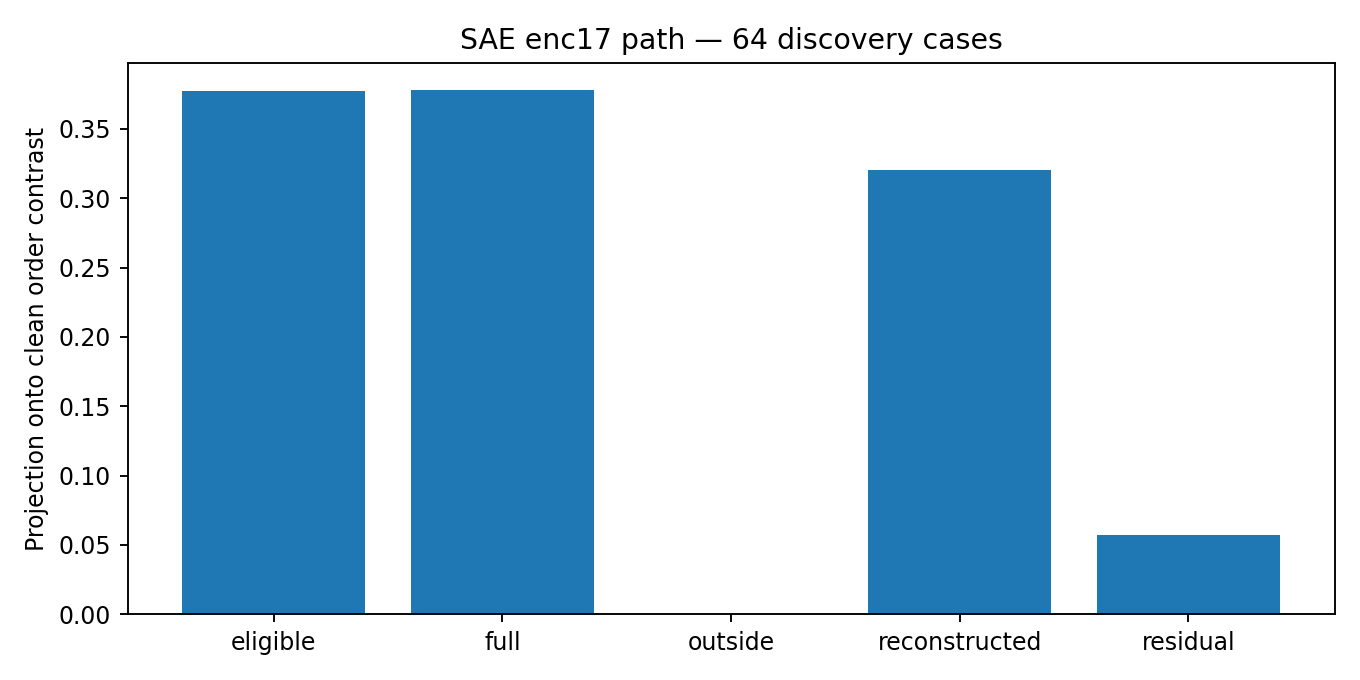
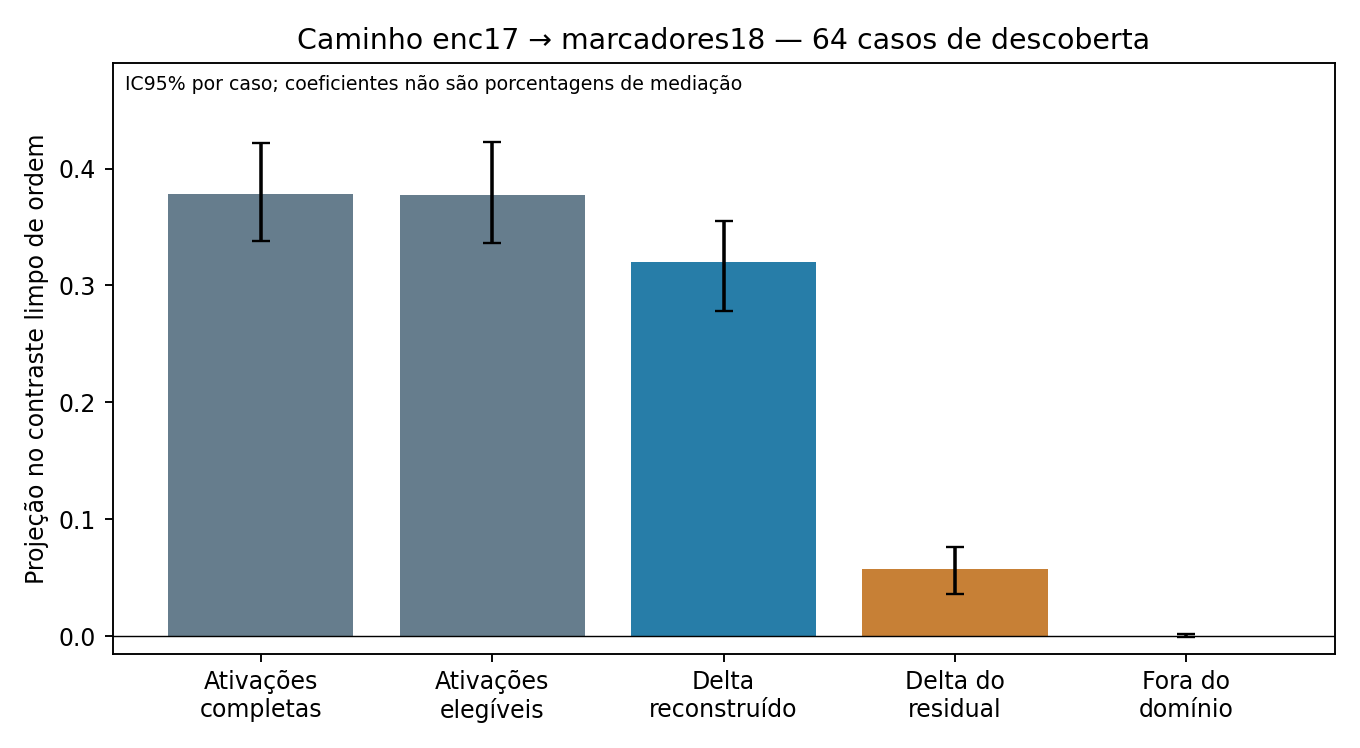
analysis: add feature audit checks and record pilot job 4511

diff --git a/analyze_position_sae_features.py b/analyze_position_sae_features.py
@@ -1,0 +1,101 @@
+"""Offline audit and paired case-bootstrap of frozen cross-fitted feature transfers."""
+import argparse
+import json
+from pathlib import Path
+import numpy as np
+import pandas as pd
+from run_position import atomic_json
+from analyze_position_sae import digest,estimate,probability_stats
+from src.position import effect_metrics
+
+
+def analyze(root,out,n_boot=2000):
+    manifest=json.loads((root/'manifest.json').read_text());complete=json.loads((root/'COMPLETE.json').read_text())
+    if digest(root/'manifest.json')!=complete['manifest_sha256']:raise ValueError('manifest differs')
+    files={p.relative_to(root).as_posix() for p in (root/'decisions').glob('*.json')}
+    if files!=set(complete['decision_sha256']):raise ValueError('file coverage differs')
+    seen=set();rows=[];contrasts=[];side=[];controls={};doses=[]
+    for rel,sha in complete['decision_sha256'].items():
+        path=root/rel
+        if digest(path)!=sha:raise ValueError('decision hash differs')
+        d=json.loads(path.read_text());key=(d['case_id'],d['qid'])
+        if key in seen:raise ValueError('duplicate decision')
+        seen.add(key);base=dict(case_id=d['case_id'],qid=d['qid'],workflow=d['workflow'],fold=d['fold'])
+        labels={'self','all_features','eligible_activation','only_selected','drop_selected','reset_all18'}
+        labels|={f'{mode}_matched_{i}' for mode in ('only','drop') for i in range(len(d['matched_sets']))}
+        labels|={f'noise_selected_{i}' for i in range(manifest['args']['n_null'])}
+        orders={tuple(r['donor_order']) for r in d['patches']}
+        if len(orders)!=2:raise ValueError('direction coverage differs')
+        found=set()
+        for r in d['patches']:
+            rowkey=(r['condition'],tuple(r['donor_order']))
+            if rowkey in found:raise ValueError('duplicate condition')
+            found.add(rowkey)
+            metric=effect_metrics(r['donor_logits'],r['recipient_logits'],r['patched_logits'])
+            for name,value in metric.items():
+                if value is None and r[name] is not None:raise ValueError('undefined metric differs')
+                if value is not None and not np.isclose(value,r[name],atol=1e-9,rtol=1e-8):raise ValueError('metric differs')
+            rows.append(dict(**base,**r))
+            gold=d['option_ids'].index(str(d['gold']['label']))
+            a=probability_stats(r['recipient_logits'],r['recipient_probabilities'],gold)
+            b=probability_stats(r['patched_logits'],r['patched_probabilities'],gold)
+            p=np.array(r['recipient_probabilities']);p/=p.sum();q=np.array(r['patched_probabilities']);q/=q.sum()
+            side.append(dict(**base,condition=r['condition'],kl=float((p*(np.log(p.clip(1e-15))-np.log(q.clip(1e-15)))).sum()),
+                **{f'original_{k}':v for k,v in a.items()},**{f'edited_{k}':v for k,v in b.items()},**{f'delta_{k}':b[k]-v for k,v in a.items()}))
+        if found!={(label,order) for label in labels for order in orders}:raise ValueError('condition grid differs')
+        for c in d['controls']:controls[c['control']]=max(controls.get(c['control'],0),c['error'])
+        for order in orders:
+            by={r['condition']:r for r in d['patches'] if tuple(r['donor_order'])==order};ref=by['all_features'];rlog=np.array(ref['recipient_logits'])
+            def get(label):
+                prefix={'matched_only_mean':'only_matched_','matched_drop_mean':'drop_matched_','noise_mean':'noise_selected_'}.get(label)
+                if prefix:return np.mean([r['patched_logits'] for name,r in by.items() if name.startswith(prefix)],axis=0)
+                return np.array(by[label]['patched_logits'])
+            for name,left,right in [('selected_minus_matched','only_selected','matched_only_mean'),
+                ('drop_matched_minus_drop_selected','matched_drop_mean','drop_selected'),
+                ('selected_minus_noise','only_selected','noise_mean'),('loss_selected','all_features','drop_selected'),
+                ('selected_minus_all','only_selected','all_features')]:
+                contrasts.append(dict(**base,contrast=name,donor_order=order,
+                    **effect_metrics(ref['donor_logits'],ref['recipient_logits'],rlog+get(left)-get(right))))
+            for group,prefix in [('matched_only_mean','only_matched_'),('matched_drop_mean','drop_matched_'),('noise_mean','noise_selected_')]:
+                temp=dict(**base,condition=group,donor_order=order,
+                    predicted_numerator=float(np.mean([r['predicted_numerator'] for name,r in by.items() if name.startswith(prefix)])),
+                    delta_norm=float(np.mean([r['delta_norm'] for name,r in by.items() if name.startswith(prefix)])),
+                    **effect_metrics(ref['donor_logits'],ref['recipient_logits'],get(group)))
+                rows.append(temp)
+            matched=[r['delta_norm'] for name,r in by.items() if name.startswith('only_matched_')]
+            doses.append(dict(**base,donor_order=order,selected_norm=by['only_selected']['delta_norm'],matched_norm_mean=float(np.mean(matched)),
+                matched_norm_min=min(matched),matched_norm_max=max(matched)))
+    expected={tuple(t) for t in manifest['tasks']}
+    if seen!=expected or len(seen)!=complete['decisions']:raise ValueError('task coverage differs')
+    out.mkdir(parents=True,exist_ok=True);summ=[];cs=[];sens=[]
+    f=pd.DataFrame(rows)
+    for condition,g in f.groupby('condition'):
+        summ.append(dict(condition=condition,**estimate(g,n_boot)))
+        for workflow in sorted(g.workflow.unique()):
+            h=g[g.workflow!=workflow]
+            if len(h):sens.append(dict(condition=condition,analysis=f'without_{workflow}',**estimate(h,n_boot)))
+        for order,h in g.groupby(g.donor_order.map(tuple)):
+            sens.append(dict(condition=condition,analysis=str(order),**estimate(h,n_boot)))
+    for name,g in pd.DataFrame(contrasts).groupby('contrast'):cs.append(dict(contrast=name,**estimate(g,n_boot)))
+    pd.DataFrame(summ).to_csv(out/'summary.csv',index=False);pd.DataFrame(cs).to_csv(out/'contrasts.csv',index=False)
+    pd.DataFrame(sens).to_csv(out/'sensitivity.csv',index=False);pd.DataFrame(doses).to_csv(out/'dose_balance.csv',index=False)
+    pd.DataFrame(side).groupby('condition').mean(numeric_only=True).to_csv(out/'side_effects.csv')
+    calibration=[]
+    for condition,g in f.groupby('condition'):
+        valid=g[['predicted_numerator','projection_numerator']].to_numpy()
+        corr=float(np.corrcoef(pd.Series(valid[:,0]).rank().to_numpy(),pd.Series(valid[:,1]).rank().to_numpy())[0,1]) if np.std(valid[:,0])>1e-12 and np.std(valid[:,1])>1e-12 else None
+        calibration.append(dict(condition=condition,spearman=corr,mean_absolute_numerator_error=float(np.abs(valid[:,0]-valid[:,1]).mean()),
+            predicted_projection=float(g.predicted_numerator.sum()/g.contrast_sqnorm.sum()) if g.contrast_sqnorm.sum()>1e-8 else None))
+    pd.DataFrame(calibration).to_csv(out/'first_order_calibration.csv',index=False)
+    atomic_json(out/'audit.json',dict(cases=len(manifest['case_ids']),decisions=len(seen),condition_rows=sum(1 for row in rows if row['condition'] not in ('matched_only_mean','matched_drop_mean','noise_mean')),
+        controls=controls,manifest_sha256=digest(root/'manifest.json'),selection_sha256=manifest['selection_sha256'],
+        n_boot=n_boot,seed=0,interpretation='Exploratory cross-fitted discovery; no position selectivity or mediation percentage.'))
+    atomic_json(out/'summary.json',dict(conditions=summ,contrasts=cs,calibration=calibration))
+    print(json.dumps(cs,indent=2))
+
+
+def main():
+    ap=argparse.ArgumentParser(description=__doc__);ap.add_argument('--input',type=Path,required=True);ap.add_argument('--out',type=Path,required=True)
+    a=ap.parse_args();analyze(a.input,a.out)
+
+if __name__=='__main__':main()

diff --git a/tests/test_position_sae_features.py b/tests/test_position_sae_features.py
@@ -47,4 +47,44 @@ class FeatureTests(unittest.TestCase):
             numeric=(results[1]-results[0])/2
             torch.testing.assert_close(numeric,(g*delta).sum(),atol=1e-3,rtol=.03)
 
+class FeaturePipelineTests(unittest.TestCase):
+    def test_collection_and_offline_audit_synthetic(self):
+        import hashlib,json,tempfile
+        from pathlib import Path
+        from run_position import Runner,atomic_json
+        from run_position_sae import collect as collect_reference
+        from run_position_sae_features import collect
+        from analyze_position_sae_features import analyze
+        from test_position_runner import SyntheticAgent
+        from test_position_factorial import FactorialModel
+        from test_position_path import ToyBlock
+        agent=SyntheticAgent();agent.device='cpu';agent.model=FactorialModel();agent.model.head=ToyBlock()
+        agent.tok.decode=lambda ids:' '.join(map(str,ids))
+        modules=[('emb',agent.model.emb),('enc_17',agent.model.layer),('enc_18',agent.model.head),('enc_final',agent.model.final)]
+        q=dict(type='choice',instructions='pick',criteria={'a':'red','b':'blue'})
+        case=dict(case_id='toy',state='case',workflow='toy',questions={'q':q},gold={'q':{'label':'a'}})
+        sae=TopKSAE(2,16,k=3);sae.scale.fill_(0.02)
+        with patch('src.activations.layer_modules',return_value=modules),patch('src.activations._options_over_cap',return_value=0):
+            runner=Runner(agent)
+            with torch.inference_mode():ref=collect_reference(runner,sae,'enc_17',case,'q',1,None)
+            data=collect(runner,sae,case,'q',dict(selected=[1,2],controls=[[3,4],[5,6]]),ref,4)
+        self.assertEqual(len(data['patches']),28)
+        self.assertTrue(all(c['error']<1e-4 for c in data['controls']))
+        data['fold']=0
+        with tempfile.TemporaryDirectory() as temp:
+            root=Path(temp);out=root/'analysis';dest=root/'decisions'/'toy.json'
+            atomic_json(dest,data)
+            atomic_json(root/'manifest.json',dict(tasks=[['toy','q']],case_ids=['toy'],args={'n_null':4},selection_sha256='synthetic'))
+            atomic_json(root/'COMPLETE.json',dict(decisions=1,manifest_sha256=hashlib.sha256((root/'manifest.json').read_bytes()).hexdigest(),
+                decision_sha256={'decisions/toy.json':hashlib.sha256(dest.read_bytes()).hexdigest()}))
+            analyze(root,out,n_boot=20)
+            audit=json.loads((out/'audit.json').read_text())
+            self.assertEqual(audit['condition_rows'],28)
+            # A saved metric mutation must fail even if the file hash is refreshed.
+            data['patches'][0]['projection_numerator']+=1
+            atomic_json(dest,data)
+            complete=json.loads((root/'COMPLETE.json').read_text());complete['decision_sha256']['decisions/toy.json']=hashlib.sha256(dest.read_bytes()).hexdigest()
+            atomic_json(root/'COMPLETE.json',complete)
+            with self.assertRaisesRegex(ValueError,'metric differs'):analyze(root,out,n_boot=20)
+
 if __name__=='__main__':unittest.main()

diff --git a/analyze_position_sae.py b/analyze_position_sae.py
@@ -146,9 +146,17 @@ def analyze(root,out,n_boot):
     import matplotlib
     matplotlib.use('Agg')
     import matplotlib.pyplot as plt
-    shown=[r for r in summary if r['layer']=='enc_17' and r['group']=='nonmarkers' and r['mode']=='path' and r['condition'] in ('full','eligible','reconstructed','residual','outside')]
-    fig,ax=plt.subplots(figsize=(8,4));ax.bar([r['condition'] for r in shown],[r['projection'] for r in shown])
-    ax.set_ylabel('Projection onto clean order contrast');ax.set_title(f'SAE enc17 path — {len(manifest["case_ids"])} discovery cases')
+    target={r['condition']:r for r in summary if r['layer']=='enc_17' and r['group']=='nonmarkers' and r['mode']=='path'}
+    order=['full','eligible','reconstructed','residual','outside']
+    shown=[target[k] for k in order]
+    labels=['Ativações\ncompletas','Ativações\nelegíveis','Delta\nreconstruído','Delta do\nresidual','Fora do\ndomínio']
+    values=[r['projection'] for r in shown]
+    errors=np.array([[max(0,r['projection']-r['ci'][0]),max(0,r['ci'][1]-r['projection'])] for r in shown]).T
+    fig,ax=plt.subplots(figsize=(8,4.4));ax.bar(labels,values,yerr=errors,capsize=4,color=['#667d8d','#667d8d','#277da8','#c78036','#8d8d8d'])
+    ax.axhline(0,color='black',linewidth=.6);ax.set_ylabel('Projeção no contraste limpo de ordem')
+    ax.set_title(f'Caminho enc17 → marcadores18 — {len(manifest["case_ids"])} casos de descoberta')
+    ax.text(.01,.98,'IC95% por caso; coeficientes não são porcentagens de mediação',transform=ax.transAxes,va='top',fontsize=8)
+    ax.set_ylim(-.015,max(r['ci'][1] for r in shown)*1.16)
     fig.tight_layout();fig.savefig(out/'path.png',dpi=170);plt.close(fig)
     return replace
 

diff --git a/docs/position-sae-mechanism/EXECUTION.md b/docs/position-sae-mechanism/EXECUTION.md
@@ -1,49 +1,57 @@
 # Execução e retomada
 
-## Rodada atual
+## A concluída e auditada
 
-- Job **4507**, ID `a069279a17e148a799f96f3b1ef3e39f`.
-- Submetido em 2026-11-25. Estado após submissão não acompanhado continuamente.
-- Código/preparação: `e28c74b`; código científico idêntico ao piloto `728eeed`.
-- Objetivo: etapa A, auditoria de fidelidade do contraste de ordem; estatísticas Δz
-  exploratórias para B, sem seleção causal de features nem treino novo.
-- 64 casos/94 decisões choice de descoberta; canônica/rotação, ambas as direções;
-  SAEs principais enc_17 e enc_08; quatro ruídos por condição.
+Job4507 concluiu 64 casos/94 choice, enc17+enc08, quatro ruídos, ambas as direções.
[1 lines of base64/hex data omitted]
+Manifestos, hashes e condições auditados; resultados em REPORT.md e discovery/.
+Enc17 passou gate funcional; enc08 demais tokens falhou. Nenhum SAE novo treinado.
+
+## Rodada atual B/C — piloto
+
+- Job **4511**, ID `87527809a46d42359d09762ad9a9e244`.
+- Código/protocolo/seleção de inferência congelados em `aab0d30`.
+- Submetido 2026-11-25; fila por cota livre zero, estimativa inicial ~18min, máximo2h.
+- Não acompanhado continuamente, sem alterar os demais jobs.
+- Dois casos/duas decisões de descoberta, enc17 k32, ambas as direções.
+- Quatro folds por caso; top32 de |delta z| por token, sem alvo de erro, logits ou flip.
+- Oito controles disjuntos pareados por frequência/magnitude; quatro ruídos de mesma
+  norma por token que selected-only. Transplante selected-only e drop-selected.
+- Inclui previsão por gradiente do contraste, exemplos de tokens e reprodução de A.
 - Workspace `~/workspace/sae-position-sae-mechanism-v1`.
-- Saída `results/position_sae_mechanism/discovery_audit_v1` nesse workspace.
-- Recursos: 1 GPU, mínimo solicitado 8 GB VRAM (classe disponível 89 GB), 8 GB RAM,
-  2 CPUs, 1 thread CPU/interop, limite 15 min. FP32/AMP off/TF32 off/MHA fastpath off.
+- Saída `results/position_sae_mechanism/features_pilot_v1` nesse workspace.
+- 1 GPU (mínimo8GB VRAM, classe89GB), RAM8GB, 2CPUs, limite10min, 1thread CPU/interop.
 
 ```powershell
-ssh sauron "sauron status 4507"
-ssh sauron "sauron logs 4507 -f"
+ssh sauron "sauron status 4511"
+ssh sauron "sauron logs 4511 -f"
 ```
 
-## Próxima retomada
+## Gates antes da coleta completa
 
-1. Conferir status e logs, COMPLETE, recursos e integridade; falha técnica não é
-   resultado científico negativo. Não modificar arquivos do job enquanto ativo.
-2. Compactar resultados, baixar para results/position_sae_mechanism/backups e
-   conferir SHA256 nas duas pontas antes de analisar.
-3. Rodar offline `python analyze_position_sae.py --input <diretorio> --out <analise>`.
-   Auditar denominadores/exclusões, FVE/delta por grupo/posição, fidelidade de
-   contraste, efeitos colaterais, E/O e distribuição; adicionar contrastes pareados
-   reconstruído versus E direto e ruído. Não interpretar intervalos por direção
-   como independentes e não chamar projeções de porcentagens explicadas.
-4. Decidir se a fidelidade permite B/C. O piloto já sinalizou perda de contraste
-   nos demais tokens: não ignorar esse sinal por boa FVE ou acurácia individual.
-5. Se necessário, auditar variantes já existentes (literal/k64/seed1) antes de
-   cogitar treino. Separar diagnóstico daquela configuração de juízo geral sobre SAE.
-6. Congelar seleção, mais ordens/manipulações e controles pareados antes de
-   validação causal em desenvolvimento; não selecionar features pelo erro do modelo.
-7. Comparativo final e revisão metodológica continuam pendentes. O teste existente
-   já foi usado. Confirmação genuinamente nova exige conjunto adicional pré-definido.
+1. Piloto precisa passar testes, replay de gradiente FP32 e referências all-features /
+   eligible do4507 (erro<=1e-4 logit); self e reset-all18 <=1e-5.
+2. Conferir COMPLETE, cobertura, hashes, recursos e preservação da lista/folds.
+3. Compactar piloto, baixar e conferir SHA256 nas duas pontas; rodar offline
+   analyze_position_sae_features.py. Auditor local validado ponta a ponta com modelo
+   sintético e teste que detecta adulteração de uma métrica salva.
+4. Passando gates técnicos, dimensionar e submeter os mesmos64/94 com código e
+   seleção idênticos. Ainda não foi submetida a coleta completa de features.
+5. Não adaptar K/listas/matching aos efeitos do piloto. Seus resultados causais
+   serão exploratórios, e não evidência populacional por dois casos.
+6. Dados completos: contrastes selected-minus-matched e perda drop-selected versus
+   média de perdas dos controles; médias dentro da pergunta/direção antes do
+   bootstrap por caso. Reportar dose, balanceamento, primeira ordem, efeitos
+   colaterais e estabilidade por workflow/direção.
+7. Depois: múltiplas ordens e controles de conteúdo/IDs/posição; robustez entre
+   dicionários e validação prospectiva da lista congelada no dev. O teste já foi
+   usado. Confirmação genuinamente nova requer conjunto adicional pré-definido.
 
-O piloto 4505 passou e foi preservado com hashes em REPORT.md. Job 4504 falhou
-antes da inferência por CRLF; preservado como incidente operacional.
+Enquanto4511 estiver na fila/rodando, NÃO atualizar os arquivos remotos usados por
+seu script. Analisadores e testes adicionais locais posteriores ao aab0d30 não
+foram enviados ao workspace do piloto em fila. Nenhum ambiente de colega alterado.
 
 ## PR recomendado
 
-Base: `experiment/position-mechanism`; head: `experiment/position-sae-mechanism`.
-Não foi criado PR, merge ou force-push. Relatórios parciais distinguem o que passou
-tecnicamente, o alerta de fidelidade e as etapas científicas ainda não realizadas.
+Base `experiment/position-mechanism`; head `experiment/position-sae-mechanism`.
+Não houve PR, merge ou force-push. Relatório comparativo final permanece pendente.
